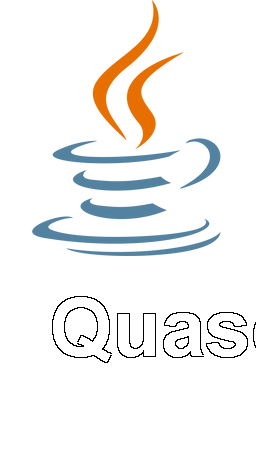
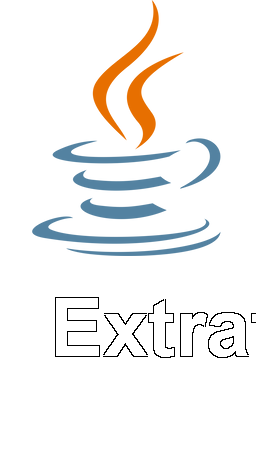
chore: correções gerais

Changed region(s): [[0.2188, 0.6447, 1.0, 0.7982], [0.1875, 0.6754, 0.2188, 0.7675], [0.375, 0.6447, 0.4062, 0.6754]]

diff --git a/src/App.java b/src/App.java
@@ -3,6 +3,7 @@ import java.net.URL;
 import java.util.List;
 import java.util.Map;
 
+// Executar após rodar o stickers-api, projeto faz a extração de acordo com o endpoint, serviço api local ou nasa por exemplo.
 public class App {
 
   public static void main(String[] args) throws Exception {
@@ -34,7 +35,7 @@ public class App {
       String nameFile = title + ".png";
 
       GeneratorStickers generatorStickers = new GeneratorStickers();
-      generatorStickers.create(inputStream, nameFile, "Quase lá!");
+      generatorStickers.create(inputStream, nameFile, "Extrator de volta!");
 
       System.out.println(title);
       System.out.println(urlImage);

diff --git a/README.md b/README.md
@@ -6,7 +6,7 @@ stickers
    <img src="http://img.shields.io/static/v1?label=STATUS&message=EM%20DESENVOLVIMENTO&color=RED&style=for-the-badge" #vitrinedev/>
 </p>
 
-### Tópicos 
+### Tópicos
 
 - [Descrição do projeto](#descrição-do-projeto)
 
@@ -22,13 +22,12 @@ stickers
 
 - [Desenvolvedor](#desenvolvedor)
 
-## Descrição do projeto 
+## Descrição do projeto
 
 <p align="justify">
- Microserviço em desenvolvimento para buscar imagens no banco de dados MongoDB, faz o download e adiciona transparência abaixo. Em seguida, o usuário pode inserir o texto que desejar na transparência, para criar sua própria figurinha personalizada e enviá-la através do Whatsapp.
+ Projeto em desenvolvimento para buscar imagens da API da NASA ou IMDB (dependendo da preferência do usuário), baixá-las e adicionar transparência abaixo. Em seguida, o usuário pode inserir o texto que desejar na transparência, para criar sua própria figurinha personalizada e enviá-la através do Whatsapp.
 
-MongoDB
-![image](https://user-images.githubusercontent.com/70734516/229660013-b60320ea-129b-41bf-8cfb-3ab0de1ca1bf.png)
+![Fluxo Desacoplar responsabilidade](https://user-images.githubusercontent.com/70734516/228729255-3b435c57-92fd-4a59-bfb5-1590fe6b93b3.png)
 
 </p>
 
@@ -40,6 +39,8 @@ MongoDB
 
 <div align="center">
 
+![Stickers](https://user-images.githubusercontent.com/70734516/228872004-105e4ada-240a-41eb-a4e6-55753be06aa6.png)
+![image](https://user-images.githubusercontent.com/70734516/228873981-85f29aaf-a32d-44a3-856d-dd4d4a76c6b3.png)
 
   </div>
 
@@ -47,7 +48,7 @@ MongoDB
 
 ## Ferramentas utilizadas
 
-<a href="https://www.java.com" target="_blank"> <img src="https://raw.githubusercontent.com/devicons/devicon/master/icons/java/java-original.svg" alt="java" width="40" height="40"/> </a> 
+<a href="https://www.java.com" target="_blank"> <img src="https://raw.githubusercontent.com/devicons/devicon/master/icons/java/java-original.svg" alt="java" width="40" height="40"/> </a>
 
 ###
 
@@ -67,5 +68,5 @@ A ferramenta de `Stickers` busca imagens na API da NASA ou IMDB e, em seguida, g
 
 ## Desenvolvedor
 
-| [<img src="https://avatars.githubusercontent.com/u/70734516?s=400&u=664d429586f00ea8f82bcb7f97fb764e820158f4&v=4" width=115><br><sub>Tiago Silva</sub>](https://github.com/tiag188) |  [<img src="https://media.licdn.com/dms/image/C4D03AQEWwi26EKMDyw/profile-displayphoto-shrink_800_800/0/1662395464931?e=1685577600&v=beta&t=_Xk09LbQBfCKN2ttyq_tC0GE3qwk4WxN08C59A9tjMA" width=115><br><sub>Tiago Silva</sub>](https://www.linkedin.com/in/tiag188/)  |
-| :---: | :---:
+| [<img src="https://avatars.githubusercontent.com/u/70734516?s=400&u=664d429586f00ea8f82bcb7f97fb764e820158f4&v=4" width=115><br><sub>Tiago Silva</sub>](https://github.com/tiag188) | [<img src="https://media.licdn.com/dms/image/C4D03AQEWwi26EKMDyw/profile-displayphoto-shrink_800_800/0/1662395464931?e=1685577600&v=beta&t=_Xk09LbQBfCKN2ttyq_tC0GE3qwk4WxN08C59A9tjMA" width=115><br><sub>Tiago Silva</sub>](https://www.linkedin.com/in/tiag188/) |
+| :---------------------------------------------------------------------------------------------------------------------------------------------------------------------------------: | :-----------------------------------------------------------------------------------------------------------------------------------------------------------------------------------------------------------------------------------------------------------------: |
